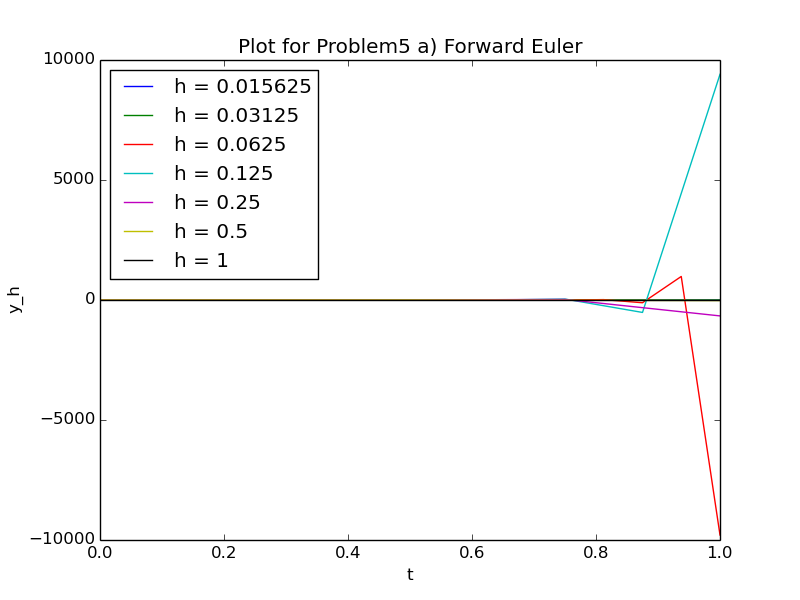
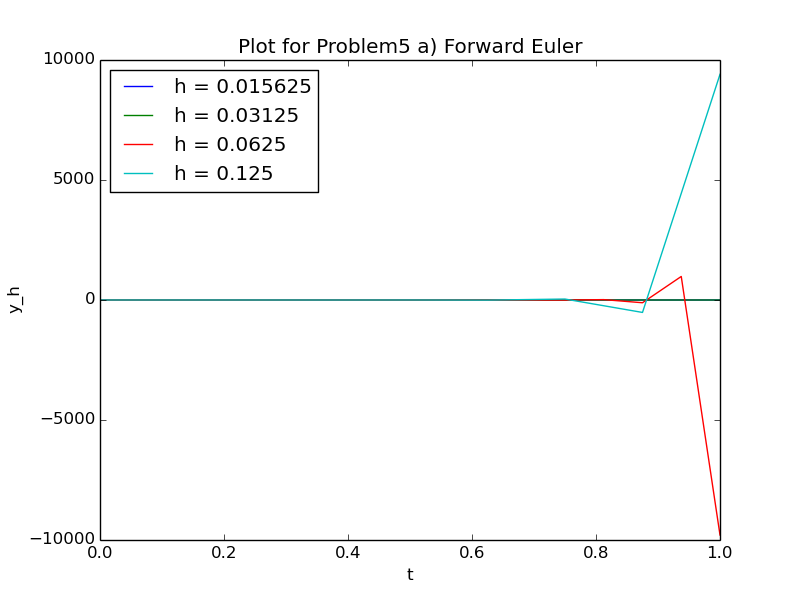
Update

Changed region(s): [[0.125, 0.3, 0.9062, 0.54]]

diff --git a/problem5_a.py b/problem5_a.py
@@ -66,23 +66,23 @@ plot_draw(t, y, h)
 h_arr.append(h)
 error_arr.append(np.abs(y[-1] - y_t1))
 
-h = 0.25
-t,y = forward_euler(0, 1, h)
-plot_draw(t, y, h)
-h_arr.append(h)
-error_arr.append(np.abs(y[-1] - y_t1))
+# h = 0.25
+# t,y = forward_euler(0, 1, h)
+# plot_draw(t, y, h)
+# h_arr.append(h)
+# error_arr.append(np.abs(y[-1] - y_t1))
 
-h = 0.5
-t,y = forward_euler(0, 1, h)
-plot_draw(t, y, h)
-h_arr.append(h)
-error_arr.append(np.abs(y[-1] - y_t1))
+# h = 0.5
+# t,y = forward_euler(0, 1, h)
+# plot_draw(t, y, h)
+# h_arr.append(h)
+# error_arr.append(np.abs(y[-1] - y_t1))
 
-h = 1
-t,y = forward_euler(0, 1, h)
-plot_draw(t, y, h)
-h_arr.append(h)
-error_arr.append(np.abs(y[-1] - y_t1))
+# h = 1
+# t,y = forward_euler(0, 1, h)
+# plot_draw(t, y, h)
+# h_arr.append(h)
+# error_arr.append(np.abs(y[-1] - y_t1))
 plt.savefig("problem5_a.png")
 
 plot_init("h", "error", "Plot for Problem5 a) error versus h")

diff --git a/problem2.py b/problem2.py
@@ -89,16 +89,18 @@ def evaluate(F, X, n):
 	return m,t,s,c
 
 def empirical_order(H, E):
-	n = len(H)
-	p_arr = []
-	for i in range(n-1):
-		H1 = H[i]
-		H2 = H[i+1]
-		E1 = E[i]
-		E2 = E[i+1]
-		p = np.log(E2/E1) / np.log(H2/H1)
-		p_arr.append(p)
-	return np.sum(p_arr)/n
+    H = np.copy(H)
+    E = np.copy(E)
+    n = len(H)
+    p_arr = []
+    for i in range(n-1):
+    	H1 = H[i]
+    	H2 = H[i+1]
+    	E1 = E[i]
+    	E2 = E[i+1]
+    	p = np.log(E2/E1) / np.log(H2/H1)
+    	p_arr.append(p)
+    return np.sum(p_arr)/n
 
 
 np.random.seed(3)

diff --git a/problem4_c.py b/problem4_c.py
@@ -44,4 +44,5 @@ for i in range(18):
 
 plot_init()
 plot_draw(h, error)
+
 plt.savefig("problem4_c.png")
